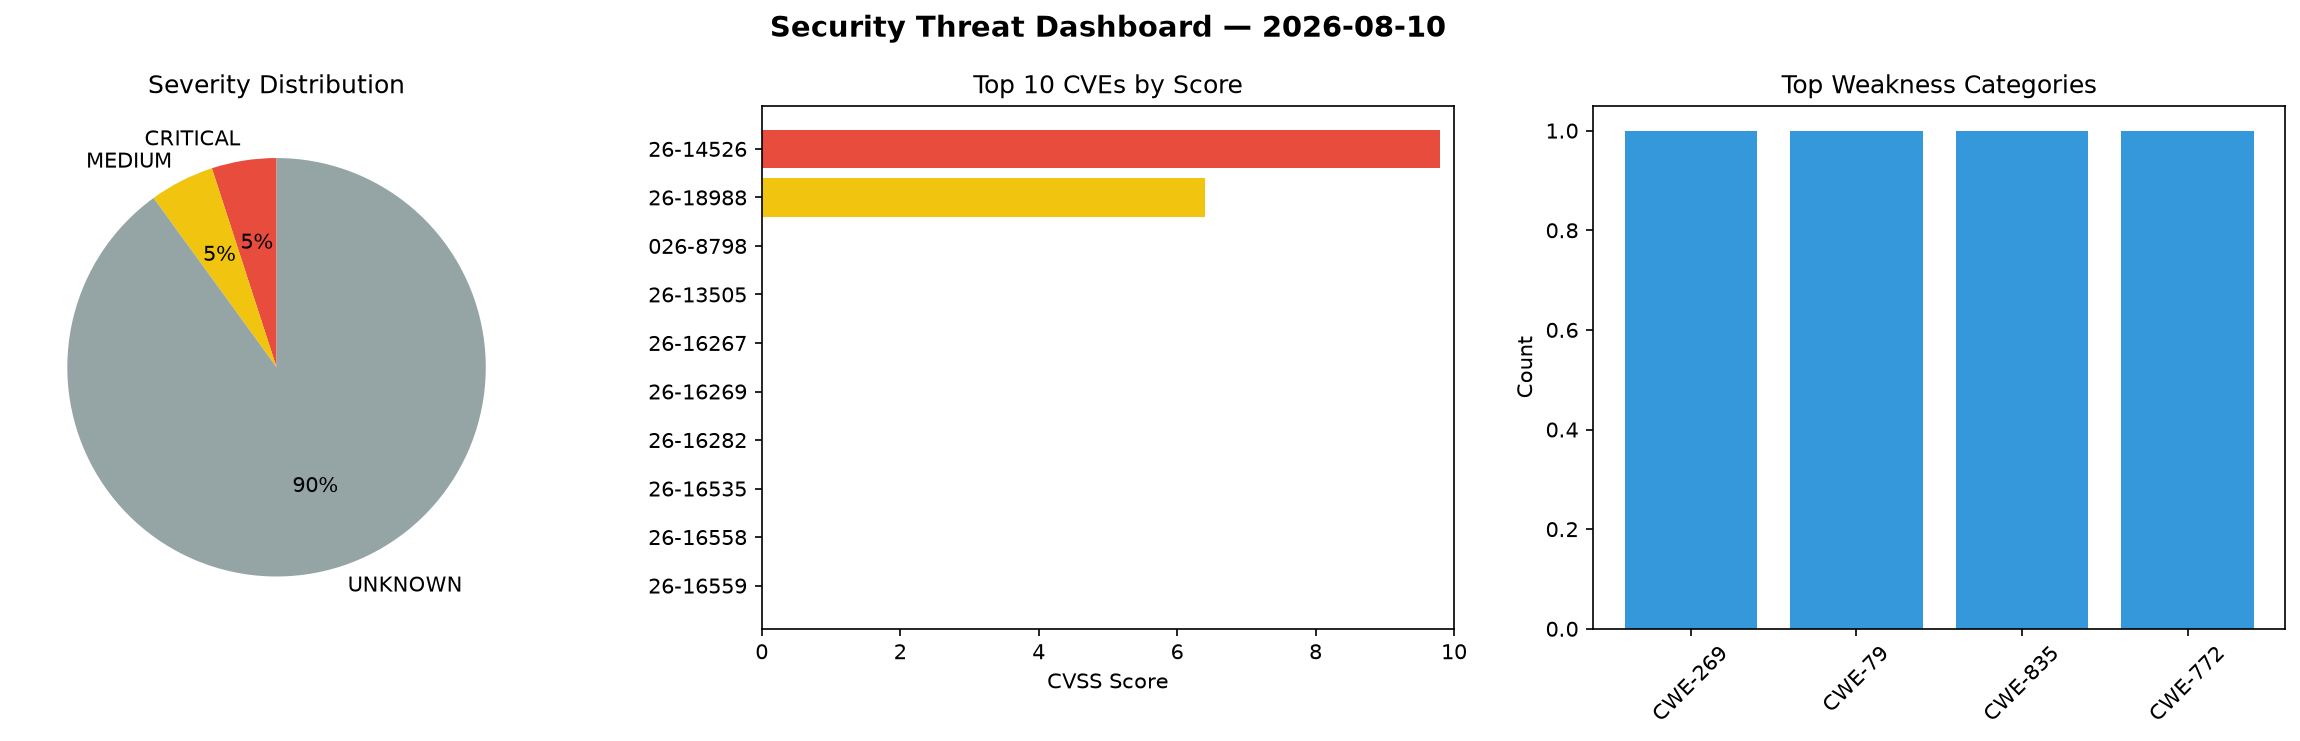
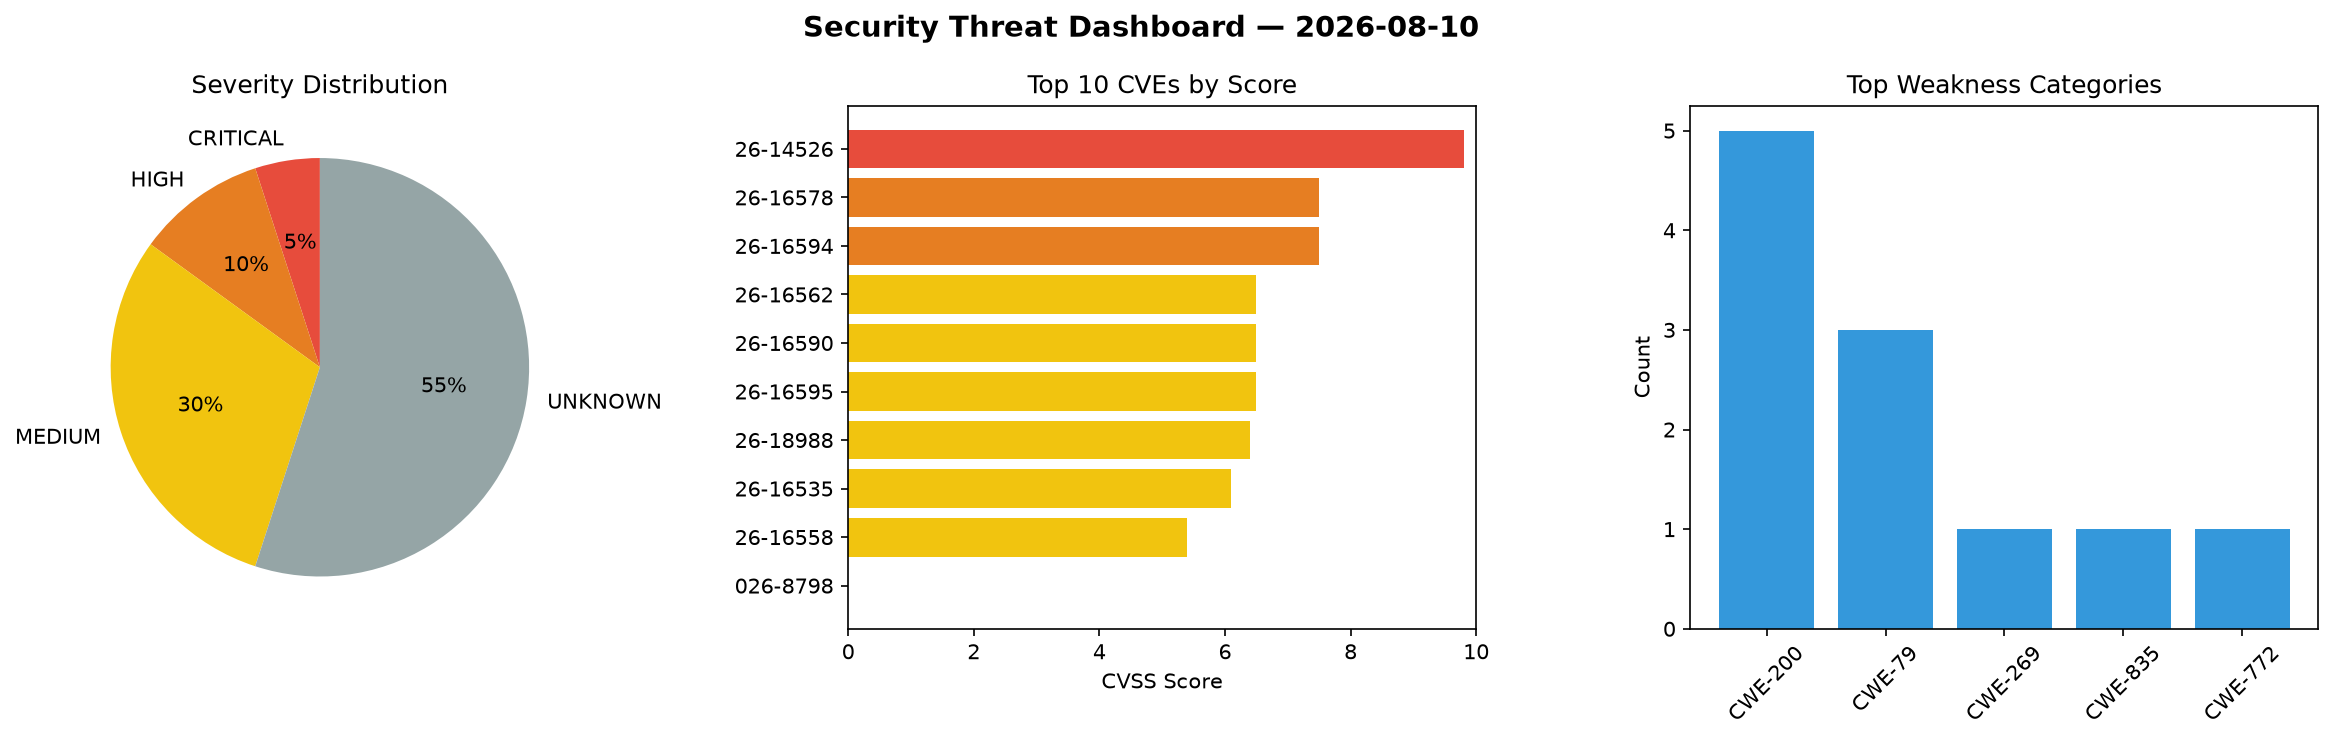
daily-experiments: security scan 2026-08-10T21:08

diff --git a/logs/2026-08-10.md b/logs/2026-08-10.md
@@ -1,6 +1,6 @@
 # Security Scan Report — 2026-08-10
 
-**Scan ID:** `11e31a63fd` | **CVEs:** 20 | **Threat Index:** 52.0
+**Scan ID:** `4299387ecf` | **CVEs:** 20 | **Threat Index:** 159.0
 
 ![Dashboard](2026-08-10_dashboard.png)
 
@@ -10,26 +10,28 @@
 
 | Metric | Value |
 |--------|-------|
-| Threat Index | 52.0 |
+| Threat Index | 159.0 |
 | Critical CVEs | 1 |
 | CRITICAL | 1 |
-| MEDIUM | 1 |
-| UNKNOWN | 18 |
+| HIGH | 2 |
+| MEDIUM | 6 |
+| UNKNOWN | 11 |
 
 ## Delta vs Yesterday
 
 | Metric | Today | Yesterday | Change |
 |--------|-------|-----------|--------|
 | total_cves | 20 | 20 | ➡ 0.0% |
-| threat_index | 52.0 | 639.8 | 📉 -91.9% |
+| threat_index | 159.0 | 639.8 | 📉 -75.1% |
 | critical_count | 1 | 13 | 📉 -92.3% |
 
 ## Top Weakness Categories
 
 | CWE | Count |
 |-----|-------|
+| CWE-200 | 5 |
+| CWE-79 | 3 |
 | CWE-269 | 1 |
-| CWE-79 | 1 |
 | CWE-835 | 1 |
 | CWE-772 | 1 |
 
@@ -38,17 +40,17 @@
 | CVE ID | Score | Severity | Description |
 |--------|-------|----------|-------------|
 | CVE-2026-14526 | 9.8 | CRITICAL | The AI Copilot – Content Generator plugin for WordPress is vulnerable to authori... |
+| CVE-2026-16578 | 7.5 | HIGH | The Admin Safety Guard — Login Security, Limit Logins, 2FA & Brute Force Protect... |
+| CVE-2026-16594 | 7.5 | HIGH | The WP Directory Kit WordPress plugin before 1.5.5 does not perform authorizatio... |
+| CVE-2026-16562 | 6.5 | MEDIUM | The WP Statistics  WordPress plugin before 14.16.10 does not perform a capabilit... |
+| CVE-2026-16590 | 6.5 | MEDIUM | The WP Directory Kit WordPress plugin before 1.5.5 does not perform authorizatio... |
+| CVE-2026-16595 | 6.5 | MEDIUM | The WP Directory Kit WordPress plugin before 1.5.5 does not perform authorizatio... |
 | CVE-2026-18988 | 6.4 | MEDIUM | The Easy Accordion plugin for WordPress is vulnerable to Stored Cross-Site Scrip... |
+| CVE-2026-16535 | 6.1 | MEDIUM | The Link Library WordPress plugin before 7.9.4 does not sanitise and escape a pa... |
+| CVE-2026-16558 | 5.4 | MEDIUM | The YMC Filter WordPress plugin before 3.12.8 does not sanitize and escape a lay... |
 | CVE-2026-8798 | 0.0 | UNKNOWN | In Bouncy Castle for Java FIPS (BC-FJA) before bc-fips 2.1.3, the native entropy... |
 | CVE-2026-13505 | 0.0 | UNKNOWN | In Bouncy Castle for Java FIPS (BC-FJA) before bc-fips 1.0.2.7 (1.0.X series), 2... |
 | CVE-2026-16267 | 0.0 | UNKNOWN | The Newsletters WordPress plugin before 4.16 does not restrict the classes allow... |
 | CVE-2026-16269 | 0.0 | UNKNOWN | The Newsletters WordPress plugin before 4.16 does not strictly compare its API a... |
 | CVE-2026-16282 | 0.0 | UNKNOWN | The Appointment Hour Booking  WordPress plugin before 1.5.88 does not validate a... |
-| CVE-2026-16535 | 0.0 | UNKNOWN | The Link Library WordPress plugin before 7.9.4 does not sanitise and escape a pa... |
-| CVE-2026-16558 | 0.0 | UNKNOWN | The YMC Filter WordPress plugin before 3.12.8 does not sanitize and escape a lay... |
 | CVE-2026-16559 | 0.0 | UNKNOWN | The YMC Filter WordPress plugin before 3.12.9 does not sanitize SVG files upload... |
-| CVE-2026-16562 | 0.0 | UNKNOWN | The WP Statistics  WordPress plugin before 14.16.10 does not perform a capabilit... |
-| CVE-2026-16574 | 0.0 | UNKNOWN | The Dokan: AI Powered WooCommerce Multivendor Marketplace Solution  WordPress pl... |
-| CVE-2026-16578 | 0.0 | UNKNOWN | The Admin Safety Guard — Login Security, Limit Logins, 2FA & Brute Force Protect... |
-| CVE-2026-16589 | 0.0 | UNKNOWN | The WP Directory Kit WordPress plugin before 1.5.5 does not sanitize and escape ... |
-| CVE-2026-16590 | 0.0 | UNKNOWN | The WP Directory Kit WordPress plugin before 1.5.5 does not perform authorizatio... |
